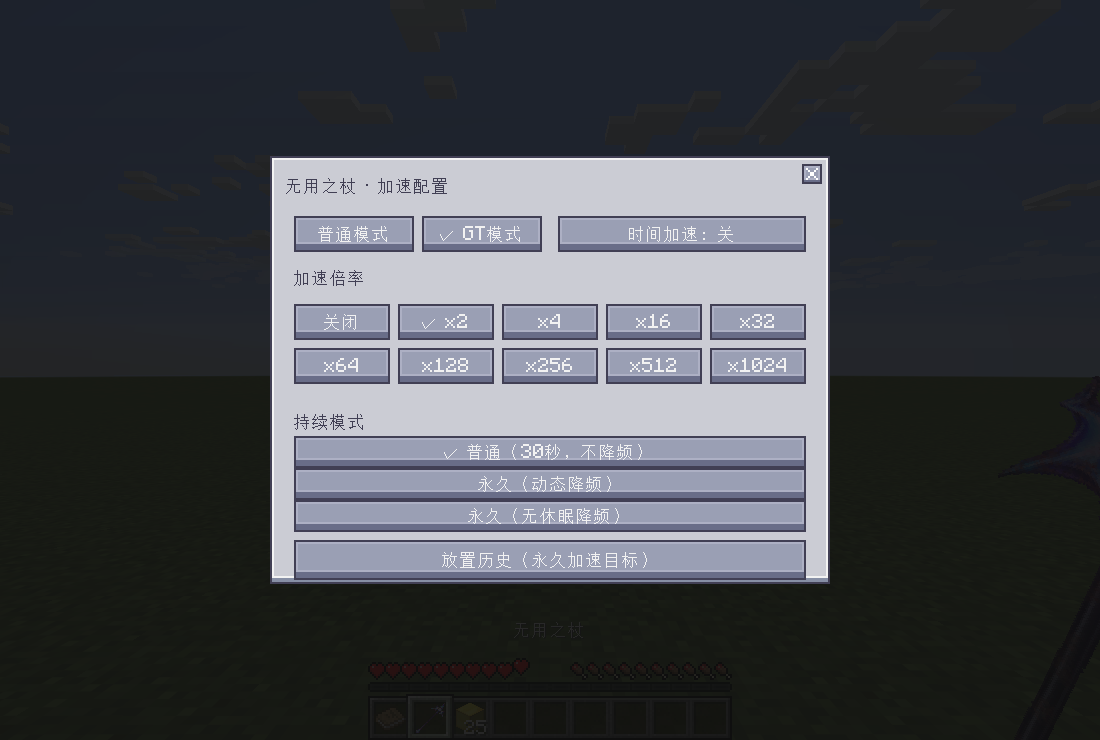
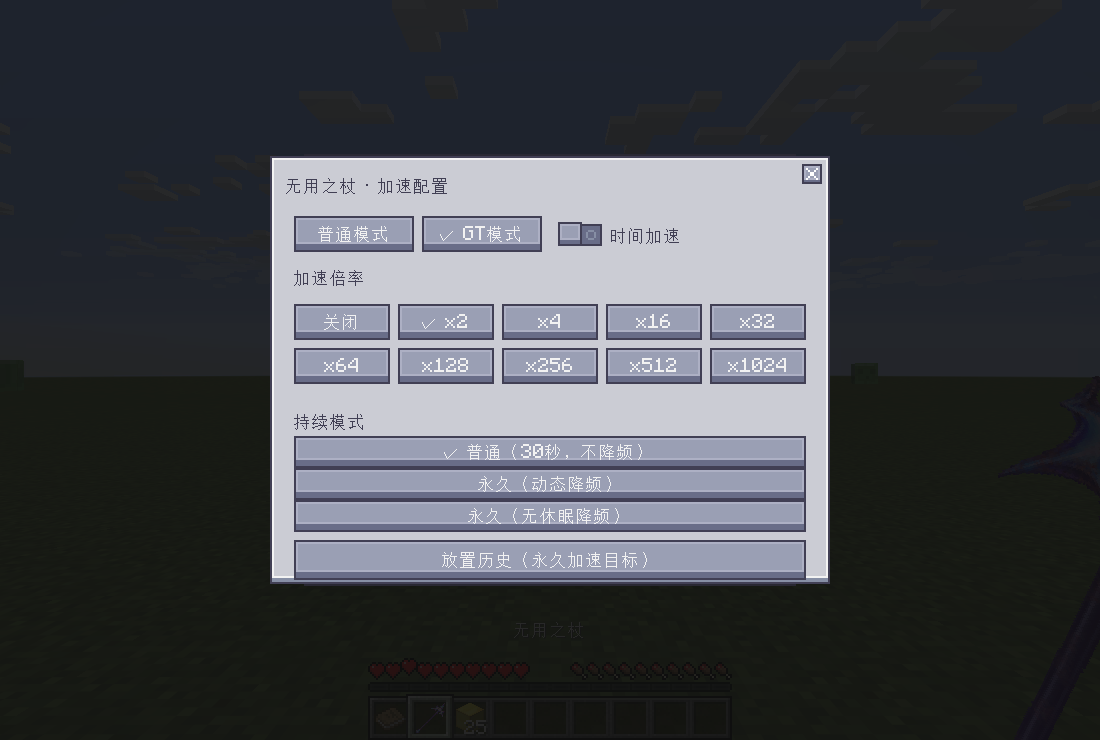
Use themed slide switches and centered page tabs for the wand

Changed region(s): [[0.4945, 0.2797, 0.7418, 0.3419]]

diff --git a/src/main/java/com/xyp/gtneverreset/common/gui/UniversalWandGui.java b/src/main/java/com/xyp/gtneverreset/common/gui/UniversalWandGui.java
@@ -8,6 +8,7 @@ import java.util.stream.IntStream;
 
 import net.minecraft.entity.player.EntityPlayer;
 import net.minecraft.item.ItemStack;
+import net.minecraft.util.EnumChatFormatting;
 import net.minecraft.util.StatCollector;
 
 import com.cleanroommc.modularui.api.IPanelHandler;
@@ -30,13 +31,16 @@ import com.cleanroommc.modularui.widgets.PageButton;
 import com.cleanroommc.modularui.widgets.PagedWidget;
 import com.cleanroommc.modularui.widgets.SliderWidget;
 import com.cleanroommc.modularui.widgets.TextWidget;
-import com.cleanroommc.modularui.widgets.ToggleButton;
 import com.cleanroommc.modularui.widgets.textfield.TextFieldWidget;
 import com.xyp.gtneverreset.common.item.items.ItemUniversalWand;
 import com.xyp.gtneverreset.common.packet.UniversalWandNetwork;
 import com.xyp.gtneverreset.common.wand.UniversalWandAccelerationHandler;
 import com.xyp.gtneverreset.common.wand.UniversalWandFeature;
+import com.xyp.gtneverreset.config.ScreenThemeConfig;
 import com.xyp.gtneverreset.config.UniversalWandConfig;
+import com.xyp.gtnrlib.gui.theme.AE2Theme;
+import com.xyp.gtnrlib.gui.theme.ScreenTheme;
+import com.xyp.gtnrlib.gui.widget.SlideSwitch;
 
 /** Item settings always refer to the exact stack that opened this screen. */
 public final class UniversalWandGui {
@@ -175,7 +179,7 @@ public final class UniversalWandGui {
                 // #tr gtneverreset.gui.universal_wand.protection.tooltip
                 // # Prevent accidental mining and pause automatic harvesting.
                 // # zh_CN 防止误挖，暂停自动收菜。
-                stateButton("protection", protection).pos(6, 42)
+                stateSwitch("protection", protection).pos(6, 42)
                     .size(222, 16))
             // #tr gtneverreset.gui.universal_wand.cooldown
             // # Break cooldown (ticks)
@@ -197,21 +201,21 @@ public final class UniversalWandGui {
             // #tr gtneverreset.gui.universal_wand.force_kill.tooltip
             // # Attempt to kill the target directly, excluding players and known allies.
             // # zh_CN 尝试直接击杀目标，排除玩家与已识别友方。
-            .child(stateButton("force_kill", forceKill).pos(6, 22))
+            .child(stateSwitch("force_kill", forceKill).pos(6, 22))
             // #tr gtneverreset.gui.universal_wand.beheading
             // # Beheading
             // # zh_CN 斩首
             // #tr gtneverreset.gui.universal_wand.beheading.tooltip
             // # Get an extra skull from vanilla or Special Mobs skeletons, wither skeletons, zombies and creepers.
             // # zh_CN 击杀原版及 Special Mobs 的骷髅、凋灵骷髅、僵尸或苦力怕，额外获得头颅。
-            .child(stateButton("beheading", beheading).pos(6, 42))
+            .child(stateSwitch("beheading", beheading).pos(6, 42))
             // #tr gtneverreset.gui.universal_wand.spawn_egg
             // # Spawn Egg
             // # zh_CN 生物捕捉
             // #tr gtneverreset.gui.universal_wand.spawn_egg.tooltip
             // # Get a spawn egg from supported mobs on kill. Original mob data is not retained.
             // # zh_CN 击杀支持的生物时获得刷怪蛋，不保留原生物数据。
-            .child(stateButton("spawn_egg", spawnEgg).pos(119, 42))
+            .child(stateSwitch("spawn_egg", spawnEgg).pos(119, 42))
             // #tr gtneverreset.gui.universal_wand.aoe_size
             // # Attack area
             // # zh_CN 范围攻击大小
@@ -229,7 +233,7 @@ public final class UniversalWandGui {
             // #tr gtneverreset.gui.universal_wand.player_protection.tooltip
             // # While carried, prevent damage and death and clear harmful effects.
             // # zh_CN 携带时免疫伤害与死亡，并清除负面药效。
-            .child(stateButton("player_protection", playerProtection).pos(6, 22))
+            .child(stateSwitch("player_protection", playerProtection).pos(6, 22))
             // #tr gtneverreset.gui.universal_wand.no_aggro
             // # Advanced stealth
             // # zh_CN 高级隐身
@@ -237,14 +241,14 @@ public final class UniversalWandGui {
             // # While carried, hide from view and mobs; no natural spawning or vanilla spawner activation. Interaction
             // stays available.
             // # zh_CN 携带时隐身、免仇恨，不触发自然刷怪与原版刷怪笼；仍可交互。
-            .child(stateButton("no_aggro", noAggro).pos(119, 22))
+            .child(stateSwitch("no_aggro", noAggro).pos(119, 22))
             // #tr gtneverreset.gui.universal_wand.teleport
             // # Teleport
             // # zh_CN 传送
             // #tr gtneverreset.gui.universal_wand.teleport.tooltip
             // # Use Ender IO Staff of Teleportation controls. Other successful right-click actions prevent teleport.
             // # zh_CN 按 Ender IO 传送权杖的操作传送；其他右键操作生效时不传送。
-            .child(stateButton("teleport", teleport).pos(6, 42))
+            .child(stateSwitch("teleport", teleport).pos(6, 42))
             // #tr gtneverreset.gui.universal_wand.flight_speed_override
             // # Flight speed override
             // # zh_CN 飞行速度覆盖
@@ -253,7 +257,7 @@ public final class UniversalWandGui {
             // faster after releasing movement keys. When disabled, allow equipment boosts with no extra wand slowing.
             // Enabled by default.
             // # zh_CN 开启时优先使用工具飞行速度、抑制装备额外水平推力，松开按键后加快减速；关闭时保留装备加速，停止工具的额外减速。默认开启。
-            .child(stateButton("flight_speed_override", flightOverride).pos(119, 42))
+            .child(stateSwitch("flight_speed_override", flightOverride).pos(119, 42))
             .child(
                 new ButtonWidget<>().name("acceleration")
                     .overlay(
@@ -288,28 +292,28 @@ public final class UniversalWandGui {
             // #tr gtneverreset.gui.universal_wand.enhanced_chain.tooltip
             // # Expand the chain search area with adjustable radius and block limit.
             // # zh_CN 扩大连锁搜索范围，半径与数量可调。
-            .child(stateButton("enhanced_chain", enhanced).pos(6, 22))
+            .child(stateSwitch("enhanced_chain", enhanced).pos(6, 22))
             // #tr gtneverreset.gui.universal_wand.gt_small_chain
             // # Chain GT small ores
             // # zh_CN 连锁贫瘠矿
             // #tr gtneverreset.gui.universal_wand.gt_small_chain.tooltip
             // # Chain matching GT large ores together with their small ore variants.
             // # zh_CN GT 大矿石与对应的小矿石（贫瘠矿）混合连锁。
-            .child(stateButton("gt_small_chain", small).pos(119, 22))
+            .child(stateSwitch("gt_small_chain", small).pos(119, 22))
             // #tr gtneverreset.gui.universal_wand.crop_harvest
             // # Automatic crop harvesting
             // # zh_CN 全自动收菜
             // #tr gtneverreset.gui.universal_wand.crop_harvest.tooltip
             // # While held, harvest mature crops in a 16x16x3 area every second. Pauses in protection mode.
             // # zh_CN 手持时每秒自动收获周围 16×16×3 范围的成熟作物；保护模式下暂停。
-            .child(stateButton("crop_harvest", crops).pos(6, 42))
+            .child(stateSwitch("crop_harvest", crops).pos(6, 42))
             // #tr gtneverreset.gui.universal_wand.crop_sticks
             // # Crop-stick support
             // # zh_CN 支持作物架
             // #tr gtneverreset.gui.universal_wand.crop_sticks.tooltip
             // # Include Crops NH crops in automatic harvesting, keeping crops and sticks intact.
             // # zh_CN 自动收菜时也收获 Crops NH 作物架，保留作物与架子。
-            .child(stateButton("crop_sticks", cropSticks).pos(119, 42))
+            .child(stateSwitch("crop_sticks", cropSticks).pos(119, 42))
             // #tr gtneverreset.gui.universal_wand.radius
             // # Enhanced radius
             // # zh_CN 增强半径
@@ -352,7 +356,7 @@ public final class UniversalWandGui {
                 // #tr gtneverreset.gui.universal_wand.force_bedrock.tooltip
                 // # Allow R to remove the targeted vanilla bedrock.
                 // # zh_CN 允许按 R 移除准星指向的原版基岩。
-                stateButton("force_bedrock", bedrock).pos(6, 102)
+                stateSwitch("force_bedrock", bedrock).pos(6, 102)
                     .size(222, 16))
             // #tr gtneverreset.gui.universal_wand.collect_items
             // # Item collection
@@ -360,14 +364,14 @@ public final class UniversalWandGui {
             // #tr gtneverreset.gui.universal_wand.collect_items.tooltip
             // # Collect harvest and kill drops into your inventory; drop any overflow.
             // # zh_CN 采集与击杀掉落优先收入背包，满时掉落。
-            .child(stateButton("collect_items", inventory).pos(6, 122))
+            .child(stateSwitch("collect_items", inventory).pos(6, 122))
             // #tr gtneverreset.gui.universal_wand.ae_priority
             // # Store drops in AE first
             // # zh_CN AE优先存入
             // #tr gtneverreset.gui.universal_wand.ae_priority.tooltip
             // # Store drops in bound AE first, then your inventory. Enables item collection.
             // # zh_CN 掉落优先存入已绑定 AE，剩余收入背包；自动开启物品收集。
-            .child(stateButton("ae_priority", ae).pos(119, 122))
+            .child(stateSwitch("ae_priority", ae).pos(119, 122))
             // #tr gtneverreset.gui.universal_wand.gt_mode.tooltip
             // # Automatic uses the cutter on GT cables and AE parts, and the wrench on machines. Click to override.
             // # zh_CN 自动模式对 GT 电缆和 AE 部件使用剪线钳，对机器使用扳手。点击可切换模式。
@@ -395,17 +399,17 @@ public final class UniversalWandGui {
         // #tr gtneverreset.gui.universal_wand.section.vanilla
         // # Vanilla tools
         // # zh_CN 原版工具
-        ParentWidget<?> vanilla = section("vanilla", 88, 44).child(stateButton("shears", shears).pos(6, 22))
+        ParentWidget<?> vanilla = section("vanilla", 88, 44).child(stateSwitch("shears", shears).pos(6, 22))
             // #tr gtneverreset.gui.universal_wand.hoe
             // # Hoe
             // # zh_CN 锄头
             // #tr gtneverreset.gui.universal_wand.hoe.tooltip
             // # Till soil with the vanilla hoe.
             // # zh_CN 使用原版锄头耕地。
-            .child(stateButton("hoe", hoe).pos(119, 22));
+            .child(stateSwitch("hoe", hoe).pos(119, 22));
         PagedWidget.Controller tabs = new PagedWidget.Controller();
         PagedWidget<?> pages = new PagedWidget<>().controller(tabs)
-            .pos(6, 32)
+            .pos(6, 40)
             .size(234, 172);
         pages.addPage(
             new ParentWidget<>().size(234, 172)
@@ -416,7 +420,7 @@ public final class UniversalWandGui {
             new ParentWidget<>().size(234, 172)
                 .child(combat)
                 .child(auxiliary));
-        ModularPanel panel = ModularPanel.defaultPanel("gtneverreset_universal_wand", 246, 208)
+        ModularPanel panel = ModularPanel.defaultPanel("gtneverreset_universal_wand", 246, 216)
             // #tr gtneverreset.gui.universal_wand.title
             // # Universal Wand
             // # zh_CN 无用之杖
@@ -426,18 +430,23 @@ public final class UniversalWandGui {
                     .pos(8, 4)
                     .height(12))
             .child(pages);
-        panel.child(tab(tabs, 0, "tools"));
-        panel.child(tab(tabs, 1, "mining"));
-        panel.child(tab(tabs, 2, "combat"));
-        if (data.isClient()) com.xyp.gtnrlib.gui.theme.AE2Theme
-            .sliderHandles(panel, com.xyp.gtneverreset.config.ScreenThemeConfig.universalWand.themeId);
+        boolean aeTabs = data.isClient() && ScreenThemeConfig.universalWand != ScreenTheme.DEFAULT;
+        panel.child(tab(tabs, 0, "tools", aeTabs));
+        panel.child(tab(tabs, 1, "mining", aeTabs));
+        panel.child(tab(tabs, 2, "combat", aeTabs));
+        if (data.isClient()) AE2Theme.sliderHandles(panel, ScreenThemeConfig.universalWand.themeId);
         return panel;
     }
 
-    private static PageButton tab(PagedWidget.Controller tabs, int index, String name) {
-        return new PageButton(index, tabs).overlay(IKey.lang("gtneverreset.gui.universal_wand.tab." + name))
-            .pos(6 + index * 78, 16)
-            .size(78, 14);
+    private static PageButton tab(PagedWidget.Controller tabs, int index, String name, boolean aeTabs) {
+        IKey label = IKey.lang("gtneverreset.gui.universal_wand.tab." + name);
+        PageButton button = new PageButton(index, tabs).pos(10 + index * 77, 18)
+            .size(72, 18);
+        if (aeTabs) {
+            button.background(AE2Theme.button(button, () -> true, button::isActive))
+                .overlay(AE2Theme.label(button, label::get, () -> true, button::isActive));
+        } else button.overlay(label);
+        return button;
     }
 
     private static ParentWidget<?> section(String title, int y, int height) {
@@ -451,17 +460,21 @@ public final class UniversalWandGui {
                             .size(222, 14));
     }
 
-    private static ToggleButton stateButton(String key, BooleanSyncValue value) {
-        return new ToggleButton() {
-
-            @Override
-            public Interactable.Result onMousePressed(int button) {
-                return controlAllowed(key) ? super.onMousePressed(button) : Interactable.Result.STOP;
-            }
-        }.name(key)
-            .value(value)
-            .overlay(true, stateLabel(key, true))
-            .overlay(false, stateLabel(key, false))
+    private static SlideSwitch stateSwitch(String key, BooleanSyncValue value) {
+        return new SlideSwitch().name(key)
+            .value(value::getBoolValue)
+            .label(IKey.dynamic(() -> {
+                String label = StatCollector.translateToLocal("gtneverreset.gui.universal_wand." + key);
+                return ScreenThemeConfig.universalWand == ScreenTheme.DEFAULT && controlAllowed(key)
+                    ? EnumChatFormatting.DARK_GRAY + label
+                    : label;
+            }))
+            .availableWhen(() -> controlAllowed(key))
+            .onMousePressed(button -> {
+                if (button != 0 || !controlAllowed(key)) return false;
+                value.setBoolValue(!value.getBoolValue(), true, true);
+                return true;
+            })
             .tooltipDynamic(tooltip -> featureTooltip(tooltip, key))
             .size(109, 16);
     }
@@ -596,16 +609,7 @@ public final class UniversalWandGui {
                     IKey.lang("gtneverreset.gui.universal_wand.acceleration_title")).pos(8, 7)
                         .size(244, 16))
             .child(
-                new ToggleButton().value(enabled)
-                    // #tr gtneverreset.gui.universal_wand.acceleration_on
-                    // # Time acceleration: ON
-                    // # zh_CN 时间加速：开
-                    .overlay(true, IKey.lang("gtneverreset.gui.universal_wand.acceleration_on"))
-                    // #tr gtneverreset.gui.universal_wand.acceleration_disabled
-                    // # Time acceleration: OFF
-                    // # zh_CN 时间加速：关
-                    .overlay(false, IKey.lang("gtneverreset.gui.universal_wand.acceleration_disabled"))
-                    .pos(144, 30)
+                stateSwitch("time_acceleration", enabled).pos(144, 30)
                     .size(124, 18))
             .child(
                 new TextWidget<>(
@@ -898,20 +902,6 @@ public final class UniversalWandGui {
     private static boolean controlAllowed(String key) {
         UniversalWandFeature feature = UniversalWandFeature.forControl(key);
         return feature == null || feature.allowed();
-    }
-
-    private static IKey stateLabel(String key, boolean enabled) {
-        return IKey.dynamic(
-            () -> (controlAllowed(key) ? "" : "§7") + StatCollector.translateToLocalFormatted(
-                // #tr gtneverreset.gui.universal_wand.state_on
-                // # %s: ON
-                // # zh_CN %s：开启
-                // #tr gtneverreset.gui.universal_wand.state_off
-                // # %s: OFF
-                // # zh_CN %s：关闭
-                "gtneverreset.gui.universal_wand." + (enabled ? "state_on" : "state_off"),
-                StatCollector.translateToLocal("gtneverreset.gui.universal_wand." + key)))
-            .scale(1.0F);
     }
 
     private static void featureTooltip(RichTooltip tooltip, String key) {

diff --git a/src/test/java/com/xyp/gtneverreset/qa/UniversalWandChecks.java b/src/test/java/com/xyp/gtneverreset/qa/UniversalWandChecks.java
@@ -21,12 +21,12 @@ import com.cleanroommc.modularui.api.widget.IWidget;
 import com.cleanroommc.modularui.widgets.ButtonWidget;
 import com.cleanroommc.modularui.widgets.PageButton;
 import com.cleanroommc.modularui.widgets.PagedWidget;
-import com.cleanroommc.modularui.widgets.ToggleButton;
 import com.xyp.gtneverreset.common.item.items.ItemUniversalWand;
 import com.xyp.gtneverreset.common.packet.UniversalWandNetwork;
 import com.xyp.gtneverreset.common.wand.UniversalWandMiningHandler;
 import com.xyp.gtneverreset.config.ScreenThemeConfig;
 import com.xyp.gtnrlib.gui.theme.ScreenTheme;
+import com.xyp.gtnrlib.gui.widget.SlideSwitch;
 
 import cpw.mods.fml.common.FMLCommonHandler;
 import cpw.mods.fml.common.Mod;
@@ -127,7 +127,7 @@ public final class UniversalWandChecks {
             if (stage == 0) {
                 oldProtection = ItemUniversalWand.isProtectionMode(mc.thePlayer.getHeldItem());
                 syncPassed = false;
-                ((ToggleButton) find(panel, "protection")).onMousePressed(0);
+                ((SlideSwitch) find(panel, "protection")).onMousePressed(0);
             }
             if (stage < 2) {
                 var nextTab = panel.getChildren()
